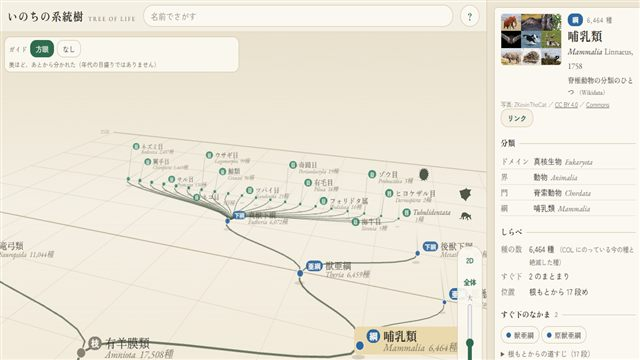
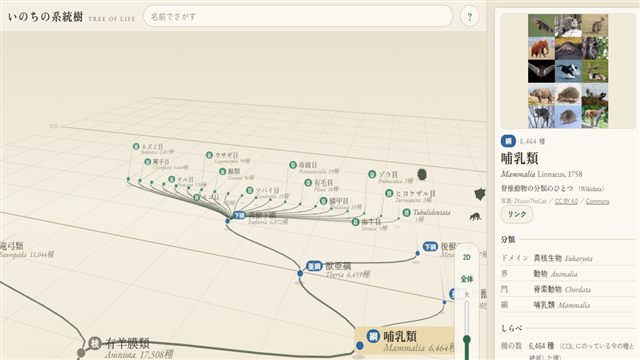
v017-polish いのちの系統樹: PC は写真を大きく、長い名前を折り返す、つまみの限界、3D の方眼に余裕、平行移動の速さを中間に、写真とシルエットを小さい版にして通信を少なく、いきものの描きなおしを重いときだけ減らす

diff --git a/tree-of-life/launcher.html b/tree-of-life/launcher.html
@@ -41,7 +41,7 @@ td a{color:var(--ink)}
   </section>
   <section>
     <h2>すべてのバックアップ</h2>
-    <table><tr><td>v001-start</td><td><a href="versions/v001-start/index.html">雛形（new-app.ps1）</a></td><td>2026-10-15</td></tr><tr><td>v002-stage-a</td><td>段階A: 界〜綱の樹形図（COL × Open Tree）、綱より下は COL から、和名・検索・詳細（Git）</td><td>2026-10-15</td></tr><tr><td>v003-zukan</td><td>図鑑風の見た目、やわらかい枝と開く・閉じるアニメ、詳細に図（Commons）（Git）</td><td>2026-10-15</td></tr><tr><td>v004-two-line</td><td>名前を2段（和名・学名）、閉じると子は親の名前の裏へ、はじめは哺乳類の目から（Git）</td><td>2026-10-15</td></tr><tr><td>v005-compact</td><td>ヘッダーを細く・使い方は？に・大きさはたてのつまみ・全体ボタンを直す・はじめの画面を真ん中に（Git）</td><td>2026-10-15</td></tr><tr><td>v006-play</td><td>シルエットが動く（PhyloPic）・どこで分かれた？・ふしぎ旅（Git）</td><td>2026-10-15</td></tr><tr><td>v007-links</td><td>詳細に「すぐ下のなかま」・リンクで共有・トラックパッドで動かす（Git）</td><td>2026-10-15</td></tr><tr><td>v008-wheel</td><td>ホイールで拡大・縮小できなくなっていたのを直す（Git）</td><td>2026-10-15</td></tr><tr><td>v009-perf</td><td>たくさん開いても軽く（画面の中だけ描く・小さいときは名前を省く・枝をまとめて描く）（Git）</td><td>2026-10-15</td></tr><tr><td>v010-no-overlap</td><td>開いた名前が上の行に重ならないように・旅をいったん外す（Git）</td><td>2026-10-15</td></tr><tr><td>v011-3d</td><td>3D でぐるぐる回せる（ガイド3種）・詳細をコンパクトにしてつまみで広げる・写真は押すと拡大（Git）</td><td>2026-10-15</td></tr><tr><td>v012-3d-default</td><td>はじめから 3D・つまみをドラッグで・右で回転／左と中で平行移動・遠い名前を出しやすく（Git）</td><td>2026-10-15</td></tr><tr><td>v013-root-fixed</td><td>3D でルートを方眼に固定（枝を開いても木がすべらない）（Git）</td><td>2026-10-15</td></tr><tr><td>v014-grid2d</td><td>2D にも方眼・方眼がはじめの設定・スマホの 3D は1本指で移動、2本指で回転と近さ（Git）</td><td>2026-10-15</td></tr><tr><td>v015-morph</td><td>2D と 3D がなめらかにつながる・ガイドは方眼／なし・道具は右下（Git）</td><td>2026-10-15</td></tr><tr><td>v016-grid-fixed</td><td>ガイドは方眼に固定（切りかえを外す）・右下の道具に余白（Git）</td><td>2026-10-15</td></tr></table>
+    <table><tr><td>v001-start</td><td><a href="versions/v001-start/index.html">雛形（new-app.ps1）</a></td><td>2026-10-15</td></tr><tr><td>v002-stage-a</td><td>段階A: 界〜綱の樹形図（COL × Open Tree）、綱より下は COL から、和名・検索・詳細（Git）</td><td>2026-10-15</td></tr><tr><td>v003-zukan</td><td>図鑑風の見た目、やわらかい枝と開く・閉じるアニメ、詳細に図（Commons）（Git）</td><td>2026-10-15</td></tr><tr><td>v004-two-line</td><td>名前を2段（和名・学名）、閉じると子は親の名前の裏へ、はじめは哺乳類の目から（Git）</td><td>2026-10-15</td></tr><tr><td>v005-compact</td><td>ヘッダーを細く・使い方は？に・大きさはたてのつまみ・全体ボタンを直す・はじめの画面を真ん中に（Git）</td><td>2026-10-15</td></tr><tr><td>v006-play</td><td>シルエットが動く（PhyloPic）・どこで分かれた？・ふしぎ旅（Git）</td><td>2026-10-15</td></tr><tr><td>v007-links</td><td>詳細に「すぐ下のなかま」・リンクで共有・トラックパッドで動かす（Git）</td><td>2026-10-15</td></tr><tr><td>v008-wheel</td><td>ホイールで拡大・縮小できなくなっていたのを直す（Git）</td><td>2026-10-15</td></tr><tr><td>v009-perf</td><td>たくさん開いても軽く（画面の中だけ描く・小さいときは名前を省く・枝をまとめて描く）（Git）</td><td>2026-10-15</td></tr><tr><td>v010-no-overlap</td><td>開いた名前が上の行に重ならないように・旅をいったん外す（Git）</td><td>2026-10-15</td></tr><tr><td>v011-3d</td><td>3D でぐるぐる回せる（ガイド3種）・詳細をコンパクトにしてつまみで広げる・写真は押すと拡大（Git）</td><td>2026-10-15</td></tr><tr><td>v012-3d-default</td><td>はじめから 3D・つまみをドラッグで・右で回転／左と中で平行移動・遠い名前を出しやすく（Git）</td><td>2026-10-15</td></tr><tr><td>v013-root-fixed</td><td>3D でルートを方眼に固定（枝を開いても木がすべらない）（Git）</td><td>2026-10-15</td></tr><tr><td>v014-grid2d</td><td>2D にも方眼・方眼がはじめの設定・スマホの 3D は1本指で移動、2本指で回転と近さ（Git）</td><td>2026-10-15</td></tr><tr><td>v015-morph</td><td>2D と 3D がなめらかにつながる・ガイドは方眼／なし・道具は右下（Git）</td><td>2026-10-15</td></tr><tr><td>v016-grid-fixed</td><td>ガイドは方眼に固定（切りかえを外す）・右下の道具に余白（Git）</td><td>2026-10-15</td></tr><tr><td>v017-polish</td><td>PC は写真を大きく・名前の折り返し・つまみの限界・方眼に余裕・平行移動の速さ・通信を少なく（Git）</td><td>2026-10-15</td></tr></table>
   </section>
 </main>
 </body>

diff --git a/tree-of-life/js/view3d.js b/tree-of-life/js/view3d.js
@@ -46,8 +46,10 @@ const V3 = (() => {
     let x0 = Infinity, x1 = -Infinity, z1 = 0;
     for (const n of V.vis) { if (n.ay === undefined) continue; x0 = Math.min(x0, X(n)); x1 = Math.max(x1, X(n)); z1 = Math.max(z1, n.lv); }
     if (!isFinite(x0)) { x0 = -200; x1 = 200; }
-    // 方眼のはしは 240 ごとにそろえる（枝を開くたびに地面のはしが少しずつ動かないように）
-    return { x0: Math.floor((x0 - 160) / 240) * 240, x1: Math.ceil((x1 + 160) / 240) * 240, n: Math.ceil((z1 + 2) / 5) * 5 };
+    // 方眼のはしは 240 ごとにそろえ（枝を開くたびに地面のはしが少しずつ動かないように）、ひとまわり余裕をもたせる
+    //   左右は 2 マスぶん、奥行きはルートの手前に 3 段・いちばん奥の先に 5 段
+    return { x0: Math.floor((Math.min(x0, 0) - 480) / 240) * 240, x1: Math.ceil((Math.max(x1, 0) + 480) / 240) * 240,
+      z0: -3, n: Math.ceil((z1 + 5) / 5) * 5 };
   }
   function line3(g, a, b, steps = 1) {
     let prev = null;
@@ -73,28 +75,28 @@ const V3 = (() => {
     g.lineCap = 'round';
     if (guide === 'grid') {
       // 方眼の地面: 段ごとの横の線（5段ごとに太く、数字）＋奥へのびる縦の線
-      for (let k = 0; k <= e.n; k++) {
+      for (let k = e.z0; k <= e.n; k++) {
         const z = k * DZ, major = k % 5 === 0;
         const p = P((e.x0 + e.x1) / 2, GROUND, z); if (!p) continue;
         g.globalAlpha = fog(p[3]) * (major ? 0.55 : 0.28);
         g.strokeStyle = major ? '#8a7a55' : '#a99b78'; g.lineWidth = major ? 1.6 : 1;
         line3(g, [e.x0, GROUND, z], [e.x1, GROUND, z], 6);
-        if (major && k > 0) label3(g, `${k}段`, e.x0 - 20, GROUND, z, 15, '#7a6a45', 'right');
+        if (major && k > 0 && k <= e.n - 5) label3(g, `${k}段`, e.x0 - 20, GROUND, z, 15, '#7a6a45', 'right');
       }
       for (let x = Math.floor(e.x0 / 120) * 120; x <= e.x1; x += 120) {
         g.globalAlpha = 0.22; g.strokeStyle = '#a99b78'; g.lineWidth = 1;
-        line3(g, [x, GROUND, 0], [x, GROUND, e.n * DZ], 14);
+        line3(g, [x, GROUND, e.z0 * DZ], [x, GROUND, e.n * DZ], 16);
       }
     } else if (guide === 'strata') {
       // 地層の帯: 5段ごとに色のちがう帯。奥へ行くほど「あとから分かれた」
       const cols = ['#e9dcc0', '#dfe6cf', '#e8d6c8', '#d8e2e6', '#ece2c6', '#e2d8e8'];
       // 1段ずつの板に分けて描く（手前の板がカメラのうしろにかかっても、見える板は出る）。色は5段ごと
-      for (let k = 0; k <= e.n; k++) {
+      for (let k = e.z0; k <= e.n; k++) {
         const za = k * DZ, zb = (k + 1) * DZ, band = Math.floor(k / 5);
         const q = [[e.x0, za], [e.x1, za], [e.x1, zb], [e.x0, zb]].map(([x, z]) => P(x, GROUND, z));
         if (q.some(p => !p)) continue;
         g.globalAlpha = fog(Math.min(q[0][3], q[1][3])) * 0.85;
-        g.fillStyle = cols[band % cols.length];
+        g.fillStyle = cols[((band % cols.length) + cols.length) % cols.length];
         g.beginPath(); q.forEach((p, i) => i ? g.lineTo(p[0], p[1]) : g.moveTo(p[0], p[1])); g.closePath(); g.fill();
         if (k % 5 === 0) {
           g.strokeStyle = '#b9a77e'; g.lineWidth = 1.2; g.globalAlpha *= 0.6;
@@ -268,11 +270,13 @@ const V3 = (() => {
   // ---------- カメラ ----------
   function orbit(dx, dy) { cam.yaw += dx * 0.006; cam.pitch = Math.max(0.05, Math.min(PITCH_MAX, cam.pitch + dy * 0.005)); }
   function pan(dx, dy) {
-    // 画面の右・奥の向きに、地面にそって動かす
-    const s = cam.dist / F;
+    // 画面の右・奥の向きに、地面にそって動かす。つかんだ地面が指（マウス）についてくるように:
+    //   はじめの速さ（つかんだ所がそのまま）と、速くしすぎた版（大画面で最大 1.7 倍・たては 1/sin 倍）の、ちょうど間（ユーザー）
+    const boost = 1 + (Math.max(1, Math.min(1.7, Math.sqrt(F / 520))) - 1) / 2;
+    const s = cam.dist / F * boost, sv = s * (1 + (1 / Math.max(0.35, Math.sin(cam.pitch)) - 1) / 2);
     const rx = Math.cos(cam.yaw), rz = -Math.sin(cam.yaw);   // 右
     const fx = Math.sin(cam.yaw), fz = Math.cos(cam.yaw);    // 奥
-    cam.tx -= (rx * dx - fx * dy) * s; cam.tz -= (rz * dx - fz * dy) * s;
+    cam.tx -= rx * dx * s - fx * dy * sv; cam.tz -= rz * dx * s - fz * dy * sv;
   }
   function dolly(f) { cam.dist = Math.max(120, Math.min(12000, cam.dist * f)); }
   // あるふしを見る（なめらかに）

diff --git a/tree-of-life/js/api.js b/tree-of-life/js/api.js
@@ -104,23 +104,24 @@ const API = (() => {
         if (!im) return null;
       }
       // 縦横比のままの PNG で、長いほうが 256px 前後のもの（なければいちばん小さいもの）
-      const ras = (im._links.rasterFiles || []).map(f => { const [w, h] = f.sizes.split('x').map(Number); return { href: f.href, w, h }; });
+      // 通信を少なく: 樹形図では 30px ほどにしか描かないので、いちばん小さい版（128px ほど）で十分
+      const ras = (im._links.rasterFiles || []).concat(im._links.thumbnailFiles || []).map(f => { const [w, h] = f.sizes.split('x').map(Number); return { href: f.href, w, h }; });
       if (!ras.length) return null;
       ras.sort((a, b) => Math.max(a.w, a.h) - Math.max(b.w, b.h));
-      const pick = ras.find(f => Math.max(f.w, f.h) >= 240) || ras[ras.length - 1];
+      const pick = ras.find(f => Math.max(f.w, f.h) >= 120) || ras[ras.length - 1];
       const lic = im._links.license.href;
       const licName = /zero/.test(lic) ? 'CC0' : /publicdomain\/mark/.test(lic) ? 'パブリックドメイン' : 'CC ' + (lic.match(/licenses\/([a-z-]+)\/([\d.]+)/) || ['', 'by', ''])[1].toUpperCase() + ' ' + ((lic.match(/licenses\/[a-z-]+\/([\d.]+)/) || ['', ''])[1]);
       const author = im.attribution || (im._links.contributor && im._links.contributor.title) || '';
       return { src: pick.href, w: pick.w, h: pick.h, author, license: licName.trim(), licenseUrl: lic,
         page: 'https://www.phylopic.org' + im._links.self.href.replace(/\?.*$/, '') };
     },
-    // Commons: ファイル名 → [{ src, w, h, page, author, license, licenseUrl, title }]
+    // Commons: ファイル名 →（写真の幅は PC 500px・スマホ 330px の縮小版。大きな PNG だと 1MB をこえることがあった） [{ src, w, h, page, author, license, licenseUrl, title }]
     //   出すのは、作者と条件を書けば使えるもの（CC0・パブリックドメイン・CC BY・CC BY-SA）だけ。
     //   NC・ND・GFDL だけのもの・条件の分からないものは出さない（RULES・no-noncommercial-sources）
     async images(files) {
       if (!files.length) return [];
       const titles = files.map(f => 'File:' + f).join('|');
-      const d = await getJSON(`https://commons.wikimedia.org/w/api.php?action=query&titles=${enc(titles)}&prop=imageinfo&iiprop=url|size|extmetadata&iiurlwidth=640&format=json&origin=*`);
+      const d = await getJSON(`https://commons.wikimedia.org/w/api.php?action=query&titles=${enc(titles)}&prop=imageinfo&iiprop=url|size|extmetadata&iiurlwidth=${window.matchMedia('(min-width: 900px)').matches ? 500 : 330}&format=json&origin=*`);
       const pages = Object.values((d.query || {}).pages || {});
       const strip = h => new DOMParser().parseFromString(h || '', 'text/html').body.textContent.replace(/\s+/g, ' ').trim();   // 外の HTML は動かさずに文字だけ
       const out = [];

diff --git a/tree-of-life/css/style.css b/tree-of-life/css/style.css
@@ -93,7 +93,7 @@ html,body{height:100%;overflow:hidden}
 #detail{background:var(--card);border:1px solid var(--rule);border-radius:6px;padding:10px 12px 12px;box-shadow:0 1px 0 var(--rule2),0 6px 18px rgba(80,60,20,.06)}
 #detail .d-rank{display:flex;align-items:center;gap:8px;font-size:12px;color:var(--sub);letter-spacing:.1em}
 #detail .tag{color:#fbf8f1;font-weight:700;font-size:12px;padding:1px 9px;border-radius:10px;letter-spacing:0}
-#detail h2{margin:2px 0 0;font-family:var(--f-mincho);font-weight:700;font-size:22px;line-height:1.3;letter-spacing:.04em}
+#detail h2{overflow-wrap:anywhere;word-break:break-word;margin:2px 0 0;font-family:var(--f-mincho);font-weight:700;font-size:22px;line-height:1.3;letter-spacing:.04em}
 /* いちばん上のカード: 左に小さな図、右に名前と説明（まなびラボの入口のカードと同じ並び） */
 .d-card{display:flex;gap:12px;align-items:flex-start}
 .d-thumb{flex:none;width:112px;height:84px;border-radius:6px;overflow:hidden;background:#efe8d7;border:1px solid var(--rule2)}
@@ -105,7 +105,8 @@ html,body{height:100%;overflow:hidden}
 .d-thumb .sil img{max-width:76%;max-height:76%;opacity:.7}
 .thumb-wait{display:block;width:100%;height:100%;background:linear-gradient(90deg,#efe8d7,#f7f2e6,#efe8d7);background-size:200% 100%;animation:wait 1.4s linear infinite}
 @keyframes wait{to{background-position:-200% 0}}
-.d-headtext{flex:1;min-width:0}
+.d-headtext{flex:1;min-width:0;overflow-wrap:anywhere}
+#detail .sci{overflow-wrap:anywhere}
 .credit{font-size:10.5px;color:var(--faint);margin:4px 0 0;line-height:1.45;overflow-wrap:anywhere}
 .credit a{color:var(--sub)}
 /* 大きく見る */
@@ -166,7 +167,12 @@ a{color:var(--acc)}
   #pin{height:100vh;border-right:1px solid var(--rule)}
   #side{height:100vh;border-top:0;box-shadow:none;padding:12px 14px 24px}
   #app.tall #zoom .zl,#app.tall #zs{display:revert}
-  .d-thumb{width:120px;height:90px}
+  /* PC: 写真は欄の幅いっぱいに大きく、名前と説明はその下（スマホは左に小さなサムネイルのカード） */
+  .d-card{display:block}
+  .d-thumb{width:100%;height:auto;aspect-ratio:4/3;max-height:300px;margin:0 0 10px;background:#f1ebdc}
+  .d-thumb .thumb img{object-fit:contain;background:#f1ebdc}
+  .d-thumb .sil img{max-width:60%;max-height:60%}
+  #detail h2{font-size:24px}
   #top{padding:8px 14px;gap:14px}
   #top h1{font-size:20px;flex-direction:row;align-items:baseline;gap:8px;letter-spacing:.08em}
   #top h1 small{font-size:11px;letter-spacing:.2em}

diff --git a/tree-of-life/js/main.js b/tree-of-life/js/main.js
@@ -248,14 +248,16 @@ V3.guide = 'grid'; V.grid2d = true;
 const app = document.getElementById('app'), grip = document.getElementById('grip'), edge = document.getElementById('edge'), side = document.getElementById('side');
 const isPC = () => window.matchMedia('(min-width: 900px)').matches;
 const SZ = { h0: 200, w0: 320, w1: 460 };
-const h1 = () => Math.round(innerHeight * 0.72);
+const maxSheet = () => Math.round(innerHeight - document.getElementById('top').getBoundingClientRect().height - 150);   // 樹形図を 150px は残す
+const h1 = () => Math.min(maxSheet(), Math.round(innerHeight * 0.72));
 let sheetH = SZ.h0, sideW = SZ.w0;
 function applySize() {
   app.style.setProperty('--sheet-h', sheetH + 'px');
   app.style.setProperty('--side-w', sideW + 'px');
   const big = isPC() ? sideW > (SZ.w0 + SZ.w1) / 2 : sheetH > (SZ.h0 + h1()) / 2;
   grip.setAttribute('aria-expanded', String(big));
-  app.classList.toggle('tall', !isPC() && sheetH > innerHeight * 0.45);   // スマホで板が高いときは大きさのつまみをかくす
+  // スマホで板が高く、樹形図の場所が低いときは、大きさのつまみをかくす（2D・全体のボタンは残す）
+  app.classList.toggle('tall', !isPC() && innerHeight - sheetH - document.getElementById('top').getBoundingClientRect().height < 340);
 }
 function toggleSize() {
   if (isPC()) sideW = sideW > (SZ.w0 + SZ.w1) / 2 ? SZ.w0 : SZ.w1;
@@ -272,8 +274,9 @@ function dragSize(el, horizontal) {
     const move = ev => {
       if (!moved && Math.hypot(ev.clientX - sx, ev.clientY - sy) < 4) return;
       moved = true; app.classList.add('dragging');
-      if (horizontal && isPC()) sideW = Math.round(Math.max(260, Math.min(Math.min(760, innerWidth * 0.6), innerWidth - ev.clientX)));
-      else if (!isPC()) sheetH = Math.round(Math.max(110, Math.min(innerHeight * 0.88, innerHeight - ev.clientY + 14)));
+      // 限界: 樹形図の場所が小さくなりすぎない（右下の道具や上の見出しと重ならない）ように
+      if (horizontal && isPC()) sideW = Math.round(Math.max(260, Math.min(760, innerWidth - 480, innerWidth - ev.clientX)));
+      else if (!isPC()) sheetH = Math.round(Math.max(110, Math.min(maxSheet(), innerHeight - ev.clientY + 14)));
       applySize();
     };
     const up = () => {

diff --git a/tree-of-life/js/critters.js b/tree-of-life/js/critters.js
@@ -211,9 +211,13 @@ const C = (() => {
   function kick() {
     if (raf) return;
     last = performance.now();
+    let frame = 0, cost = 0;
     raf = requestAnimationFrame(function loop(t) {
       const more = step(Math.min(0.05, (t - last) / 1000)); last = t;
-      V.draw();
+      // いきもののための描きなおし。木全体を描くのに時間がかかるとき（たくさん開いたとき）は回数を減らす
+      //   8ms をこえたら2コマに1回、16ms をこえたら3コマに1回（ふだんは毎コマ。ほかの動き・アニメは自分で描くので変わらない）
+      const every = cost > 16 ? 3 : cost > 8 ? 2 : 1;
+      if (frame++ % every === 0) { const s = performance.now(); V.draw(); cost = cost * 0.8 + (performance.now() - s) * 0.2; }
       raf = more ? requestAnimationFrame(loop) : 0;
     });
   }

diff --git a/tree-of-life/DEVNOTES.md b/tree-of-life/DEVNOTES.md
@@ -1,7 +1,7 @@
 # いのちの系統樹 開発メモ
 
 ## 別セッションで続けるとき（まずここ）
-- いまの状態: v016-grid-fixed（ガイドは方眼に固定して切りかえを画面から外した・右下の道具に余白）。その前 v015-morph（2D と 3D がつながる・ガイドは方眼／なし・PC の上のつまみなし・道具は右下・先がある線を 2D でも見えるように）。その前 v014-grid2d（2D にも方眼・方眼がはじめの設定・スマホの 3D は1本指で移動、2本指の左右で回転・上下で近さ）。その前 v013-root-fixed（3D でルートを方眼に固定）。その前 v012-3d-default（はじめから 3D・つまみはドラッグでなめらかに・3D のマウスは右で回転／左と中で平行移動・遠い名前を出しやすく・開いたときのカメラは親が画面に残るところまで）。その前 v011-3d（3D でぐるぐる回せる・ガイド3種・詳細はコンパクトでつまみで広げる・写真は小さく押すと拡大・先がある枝にうっすら線）。「どこで分かれた？」はユーザーの指示でいったん画面から外した（compare.js は残してある。`#c=` のリンクは動く）。その前 v010-no-overlap（開いた名前が上の行に重ならない・旅を外した）。その前 v009-perf（たくさん開いても軽く）。その前 v007-links（すぐ下のなかまを詳細に・リンクで共有・トラックパッド）。その前 v006-play（シルエットが名前の右で動く・「どこで分かれた？」・ふしぎ旅）。ユーザー: おもしろそうな要素はどんどん入れて、だめそうなものは外す。保管庫（archive.html）に掲載。入口には載せない（RULES 8.1）。日本語だけ。
+- いまの状態: v017-polish（PC は写真を大きく・長い名前を折り返す・つまみの限界・3D の方眼に余裕・平行移動の速さ・通信を少なく・いきものの描きなおしを重いとき減らす）。その前 v016-grid-fixed（ガイドは方眼に固定して切りかえを画面から外した・右下の道具に余白）。その前 v015-morph（2D と 3D がつながる・ガイドは方眼／なし・PC の上のつまみなし・道具は右下・先がある線を 2D でも見えるように）。その前 v014-grid2d（2D にも方眼・方眼がはじめの設定・スマホの 3D は1本指で移動、2本指の左右で回転・上下で近さ）。その前 v013-root-fixed（3D でルートを方眼に固定）。その前 v012-3d-default（はじめから 3D・つまみはドラッグでなめらかに・3D のマウスは右で回転／左と中で平行移動・遠い名前を出しやすく・開いたときのカメラは親が画面に残るところまで）。その前 v011-3d（3D でぐるぐる回せる・ガイド3種・詳細はコンパクトでつまみで広げる・写真は小さく押すと拡大・先がある枝にうっすら線）。「どこで分かれた？」はユーザーの指示でいったん画面から外した（compare.js は残してある。`#c=` のリンクは動く）。その前 v010-no-overlap（開いた名前が上の行に重ならない・旅を外した）。その前 v009-perf（たくさん開いても軽く）。その前 v007-links（すぐ下のなかまを詳細に・リンクで共有・トラックパッド）。その前 v006-play（シルエットが名前の右で動く・「どこで分かれた？」・ふしぎ旅）。ユーザー: おもしろそうな要素はどんどん入れて、だめそうなものは外す。保管庫（archive.html）に掲載。入口には載せない（RULES 8.1）。日本語だけ。
 - 次にやること: ユーザーに見てもらって感想を聞く → PLAN.md の「段階B以降」から選ぶ（年代の目盛り・写真・綱より下も系統の形に、など）。
 - 読む順: PLAN.md（「調べたこと」に情報量と利用条件）→ このファイルの「ファイル構成」→ 関係するファイルだけ。
 - 動かし方: サーバー apps（.claude/launch.json）で http://localhost:8765/tree-of-life/ 。デバッグ用の窓口 `window.__trofli`（`find(学名か和名)`・`press(学名)`・`reveal(COL id)`・`T`・`V`・`UI`）、エラーは `window.__trofliErr`。
@@ -64,6 +64,13 @@
   - いきもの: 3D では名前の札の右に（`C.draw3d`、押せる `C.hit3`）。
 - **2D と 3D をつなぐ**（v015, view3d.js）: 2D の見え方 = 真上（pitch 1.56）から yaw −90° で見たところ。奥行きは `B`（真上に近いほど 1）で、段ごとの並び（lv×130）から 2D の並び（ax − ルートの ax）へなめらかにうつる（3D で真上まで回しても 2D の並びにつながる）。ボタンで 3D→2D: 真上まで起き上がってから（`morphTo2D`）2D の絵へ（`toTop2D` で 2D のカメラを合わせる）。2D→3D: 2D のカメラから真上の 3D のカメラを作り（`fromTop2D`）、ななめへ倒れこむ（`morphTo3D`）。合わせる基準は画面の真ん中に近いふし（遠いルートで合わせると、少しななめな分のずれが真ん中で大きくなった）。起き上がる間は、見る点の近くのふしが同じ所に写るよう見る点を追いかける（`tween` の `follow`）。入れかわりのずれは 1〜2px。3D の字の大きさ = 遠近の倍率 × 14px（真上で 2D の拡大と同じ）、9〜22px。
   - 前後（v015）: 3D の名前は 下じき → 点 → 名前 の順に描く（近づくと点が下じきに隠れていた）。
+- **v017 のまとめ**:
+  - 詳細: PC は写真を欄の幅いっぱい（4:3・最大 300px、contain）、名前と説明はその下。スマホは左に小さなサムネイルのカード。長い名前は折り返す（`overflow-wrap:anywhere`）。
+  - つまみの限界: スマホの板は樹形図を 150px 残す（`maxSheet`）、PC の欄は樹形図を 480px 残す。樹形図の高さが 340px 未満のときは大きさのつまみをかくす（2D・全体のボタンは残す）。道具は右下に余白（右 14px・下 16px）。
+  - 3D の方眼: ルートの手前に3段・奥に5段・左右に2マスの余裕。
+  - 平行移動（3D）: はじめの速さと速くしすぎた版のちょうど間（ユーザー）。横は大画面で最大 1.35 倍、前後は (1 + 1/sin(見下ろす角度)) / 2 倍。
+  - 通信: 測った（起動して数秒で約 1.6MB、うち写真1枚が 1.3MB の PNG 幅 960px）→ 写真は PC 500px・スマホ 330px、シルエットは 128px ほどの小さい版に。COL・Wikidata・PhyloPic の API は小さな JSON（他のサイトなので大きさはブラウザから見えない）。同じ URL は2度読まない。
+  - 重さ: 1,889 ふしを開いて 3D の1回の描画は 4〜6ms で、16ms に収まる。いきものがいる間は毎コマ木全体を描きなおすので、描くのに 8ms をこえたら2コマに1回・16ms をこえたら3コマに1回に減らす（critters.js の `kick`）。ほかの動きは自分で描くので変わらない。
 - **2D の方眼**（v014, view.js `drawGrid`）: 1マス 34（葉1行）、5マスごとに少し濃く。原点はルートの見た目の位置（枝を開いても方眼はすべらない）。小さく見えているときは5マスごとだけ。ガイドは 2D も 3D も「方眼・なし」の二択（v015。地層・ゲートのボタンは外した。view3d.js に描き方は残してある）。はじめは方眼（覚えておく名前を `tol-guide2` に変えて、それまでに試したガイドが残らないように）。
 - **まだ先がある枝**（v011）: 閉じていて開けるまとまりは、2D では名前の右へ、3D では奥へ、うっすら線をのばす（2D ではシルエットがこの線の上を歩く）。
 - **詳細の欄**（v011・v012・v015。PC は上のつまみを出さず左のふちだけ、つまみに「広げる」の文字は出さない）: スマホは下から出る板（はじめ 200px、`--sheet-h`）、PC は右の欄（はじめ 320px、`--side-w`）。つまみ `#grip`（PC は左のふち `#edge` も）を押すと広げる・縮める（スマホ 72%・PC 460px）、ドラッグで好きな大きさに（`dragSize`。ドラッグ中はアニメなし）。スマホで板が高いとき（45% より上）は大きさのつまみをかくす。いちばん上はまなびラボの入口のカードと同じ「左に小さな図・右に名前と説明」、図は押すと大きく（`#lightbox`、作者・条件つき）。写真がないときはシルエットを図のかわりに。リンクのボタンは図と説明の下、押しても文字を変えず（幅が変わって回りこむのがいやとユーザー）、知らせは樹形図の下に。
@@ -112,3 +119,4 @@
 - 2026-10-15 v014-grid2d: ユーザーの声で、2D にも方眼（ルートが原点）、方眼をはじめの設定に、スマホの 3D は1本指で移動・2本指の左右で回転・上下で近さ。
 - 2026-10-15 v015-morph: ユーザーの声で、2D と 3D をなめらかにつなぐ（真上に起き上がる・倒れこむ、真上まで回すと 2D の並び）、ガイドは方眼／なしの二択、PC の上のつまみと「広げる」の文字を消す、道具を右下に、2D の先がある線を枝の色で見えるように、切りかえでカメラを動かさない、3D の名前の下じきが点を隠さないように。
 - 2026-10-15 v016-grid-fixed: ユーザーの声で、ガイドはいったん方眼に固定（切りかえの帯 `#guide3d` は hidden。コードは残す）、右下の道具に余白（右 14px・下 16px、safe-area も）。
+- 2026-10-15 v017-polish: ユーザーの声で、PC は写真を大きく、長い名前を折り返す、つまみの限界、3D の方眼に余裕、平行移動の速さを中間に、写真とシルエットを小さい版にして通信を少なく、いきものの描きなおしを重いときだけ減らす。
